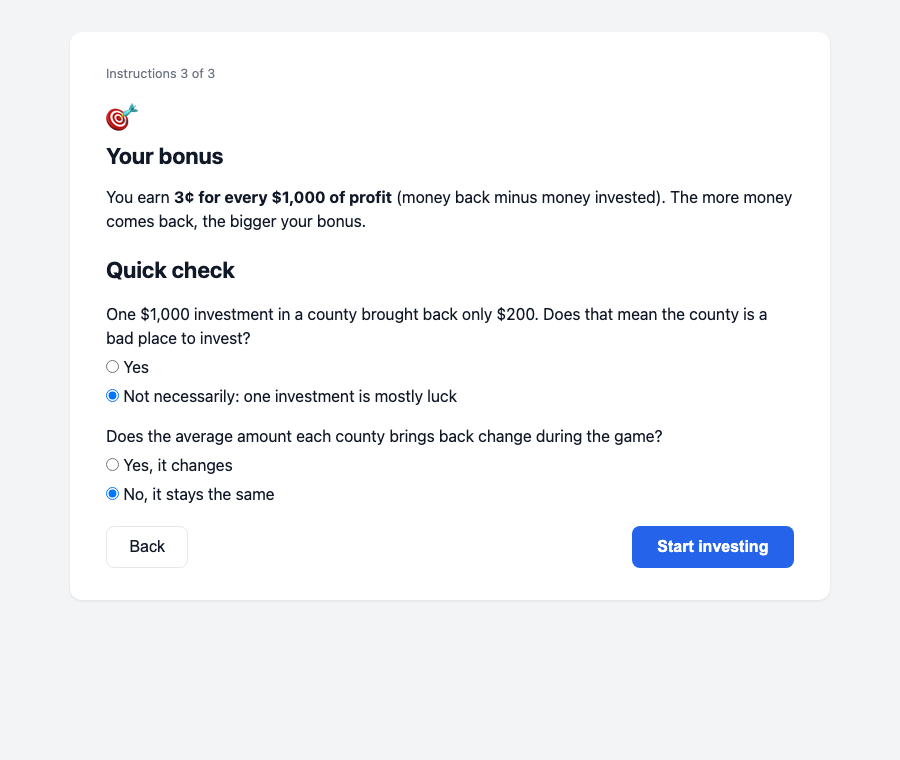
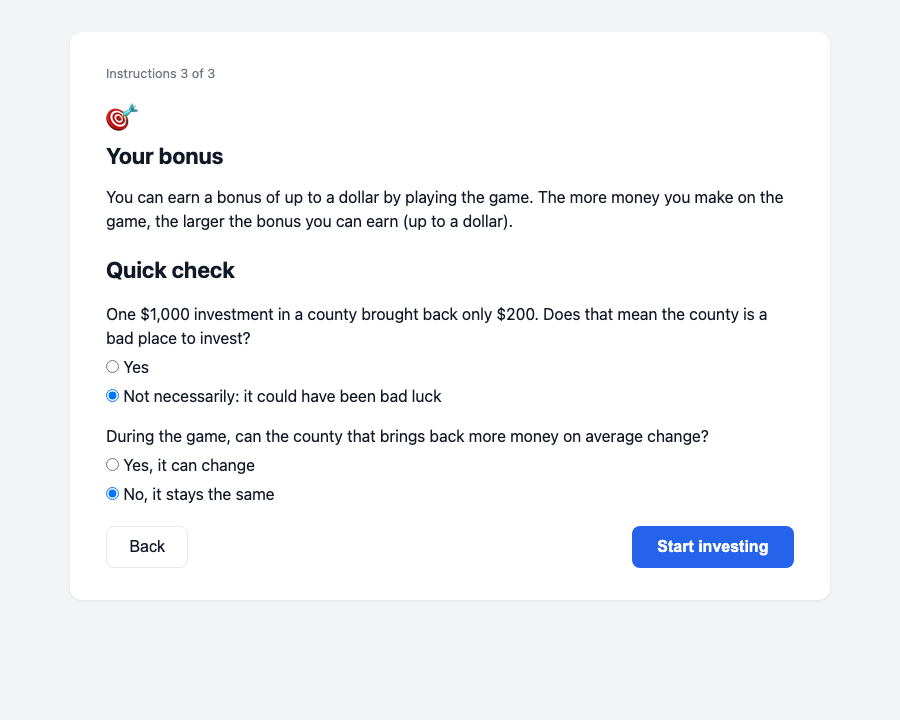
Prototype: apply BenBen's Coedit copy (instructions, check, bonus up to $1 from scaled profit, no tiles, always-green cash, 0.25 s pause)

Changed region(s): [[0.0933, 0.0917, 0.8711, 0.7944], [0.6844, 0.6722, 0.9022, 0.7944]]

diff --git a/studies/09_bandit_prototype/prototype.html b/studies/09_bandit_prototype/prototype.html
@@ -41,15 +41,11 @@
   .ledger { margin-top: .8rem; font-size: .9rem; font-variant-numeric: tabular-nums; }
   .ledger div { display: flex; justify-content: space-between; }
   .ledger .last { font-weight: 700; }
-  .tiles { display: flex; flex-wrap: wrap; gap: 5px; margin-top: .7rem; min-height: 28px; }
-  .tile { font-size: .78rem; font-weight: 700; padding: 3px 7px; border-radius: 6px; background: #fff; border: 1px solid var(--line); color: var(--green); font-variant-numeric: tabular-nums; }
-  .tile.low { color: var(--muted); }
 
   /* cash animation */
   .btn-wrap { position: relative; }
   .cash { position: absolute; left: 50%; top: -.4rem; transform: translateX(-50%); font-size: 2rem; font-weight: 900; color: var(--green); pointer-events: none; white-space: nowrap;
           text-shadow: 0 1px 0 #fff, 0 0 12px rgba(21,128,61,.25); animation: rise 1.1s ease-out forwards; }
-  .cash.low { color: #4b5563; text-shadow: 0 1px 0 #fff; }
   @keyframes rise { 0% { opacity: 0; transform: translate(-50%, 10px) scale(.6); } 15% { opacity: 1; transform: translate(-50%, 0) scale(1.15); } 30% { transform: translate(-50%, -6px) scale(1); } 100% { opacity: 0; transform: translate(-50%, -60px) scale(1); } }
   body.noanim .cash { animation: none; transform: translate(-50%, -2.6rem); }
 
@@ -92,7 +88,8 @@ const CFG = {
   backD: num('d', 1.00),           // average $ back per $1 invested, Lakewood
   shapeR: num('kr', 2.7),          // noise: SD of one return = mean / sqrt(shape)
   shapeD: num('kd', 2.0),
-  centsPer1kProfit: num('cents', 3), // bonus per $1,000 of profit (money back minus money in)
+  centsPer1kProfit: num('cents', 2.5), // bonus per $1,000 of profit (money back minus money in)
+  maxBonus: num('maxbonus', 1.00),       // bonus cap in dollars
   seed: num('seed', Math.floor(Math.random() * 1e9)),
 };
 const N_INVEST = Math.round(CFG.budget / CFG.unit);
@@ -122,7 +119,8 @@ const S = { screen: 'tut1', check: {}, checkTried: false, log: [], last: null, b
 const invested = c => S.log.filter(v => !c || v.county === c).length * CFG.unit;
 const back = c => S.log.filter(v => !c || v.county === c).reduce((s, v) => s + v.back, 0);
 const profit = () => back() - invested();
-const bonus = () => Math.max(0, profit()) / 1000 * CFG.centsPer1kProfit / 100;
+const bonusFor = pr => Math.min(CFG.maxBonus, Math.max(0, pr) / 1000 * CFG.centsPer1kProfit / 100);
+const bonus = () => bonusFor(profit());
 const $ = x => (x < 0 ? '−$' : '$') + Math.abs(Math.round(x)).toLocaleString('en-US');
 const $s = x => (x >= 0 ? '+' : '') + $(x);
 
@@ -134,7 +132,7 @@ function invest(c) {
     S.busy = false;
     if (S.log.length >= N_INVEST) { S.screen = 'end'; render(); return; }
     document.querySelectorAll('.invest-btn').forEach(b => { b.disabled = false; }); // no re-render, so the cash animation plays out
-  }, SHOT ? 0 : 450);
+  }, SHOT ? 0 : 250);
 }
 
 // --------------------------------- views -----------------------------------
@@ -153,24 +151,23 @@ const views = {
     ${nav(null, "S.screen='tut2';render()")}`,
 
   tut2: () => h`<div class="steps">Instructions 2 of 3</div>
-    <div class="big-emoji">💵</div><h2>Money in, money out</h2>
+    <div class="big-emoji">💵</div><h2>Deciding where to invest</h2>
     <p>Each time you click, you invest ${$(CFG.unit)} in that county, and you see right away how much money came back from sales.</p>
-    <p>Counties differ: in some, ${$(CFG.unit)} brings back more money on average than in others. Either county could be the better one.</p>
-    <p>Any single investment is mostly luck. A good county can bring back little, and a weak county can bring back a lot. To tell which county is better, look at many investments, not one.</p>
-    <p>Each county's average stays the same for the whole game.</p>
+    <p>On average, one county may bring back more money than the other.</p>
+    <p>However, like in the real world, sometimes you'll get lucky and make more money. Others, you will have less luck and earn less.</p>
     ${nav('tut1', "S.screen='tut3';render()")}`,
 
   tut3: () => {
     const qs = [
       { id: 'q1', text: `One ${$(CFG.unit)} investment in a county brought back only $200. Does that mean the county is a bad place to invest?`,
-        opts: ['Yes', 'Not necessarily: one investment is mostly luck'], right: 1 },
-      { id: 'q2', text: 'Does the average amount each county brings back change during the game?', opts: ['Yes, it changes', 'No, it stays the same'], right: 1 },
+        opts: ['Yes', 'Not necessarily: it could have been bad luck'], right: 1 },
+      { id: 'q2', text: 'During the game, can the county that brings back more money on average change?', opts: ['Yes, it can change', 'No, it stays the same'], right: 1 },
     ];
     const ok = qs.every(q => S.check[q.id] === q.right);
     const all = qs.every(q => S.check[q.id] != null);
     return h`<div class="steps">Instructions 3 of 3</div>
     <div class="big-emoji">🎯</div><h2>Your bonus</h2>
-    <p>You earn <b>${CFG.centsPer1kProfit}¢ for every ${$(1000)} of profit</b> (money back minus money invested). The more money comes back, the bigger your bonus.</p>
+    <p>You can earn a bonus of up to a dollar by playing the game. The more money you make on the game, the larger the bonus you can earn (up to a dollar).</p>
     <h2 style="margin-top:1.25rem">Quick check</h2>
     ${qs.map(q => h`<div class="q"><div>${q.text}</div>${q.opts.map((o, i) => `<label><input type="radio" name="${q.id}" ${S.check[q.id] === i ? 'checked' : ''} onchange="S.check.${q.id}=${i};S.checkTried=false;render()"> ${o}</label>`).join('')}
       ${S.checkTried && S.check[q.id] !== q.right ? '<div class="wrong">Not quite. Please read the instructions again.</div>' : ''}</div>`).join('')}
@@ -182,7 +179,7 @@ const views = {
     const card = c => {
       const mine = S.log.filter(v => v.county === c);
       const cash = S.busy && S.last && S.last.county === c
-        ? `<div class="cash ${S.last.back < CFG.unit ? 'low' : ''}">+${$(S.last.back)}</div>` : '';
+        ? `<div class="cash">+${$(S.last.back)}</div>` : '';
       return h`<div class="county">
         <h3>${COUNTY[c].name}</h3><div class="desc">${COUNTY[c].desc}</div>
         <div class="btn-wrap"><button class="invest-btn" ${S.busy || left <= 0 ? 'disabled' : ''} onclick="invest('${c}')">Invest ${$(CFG.unit)} in ${COUNTY[c].short}</button>${cash}</div>
@@ -191,7 +188,6 @@ const views = {
           <div><span>Money back</span><span>${$(back(c))}</span></div>
           <div class="last"><span>Last investment</span><span>${mine.length ? $(mine[mine.length - 1].back) : '–'}</span></div>
         </div>
-        <div class="tiles">${mine.slice(-8).map(v => `<span class="tile ${v.back < CFG.unit ? 'low' : ''}">${$(v.back)}</span>`).join('')}</div>
       </div>`;
     };
     return h`
@@ -222,7 +218,7 @@ function devPanel() {
   return h`<div class="dev"><div><b>Researcher panel</b> (hidden from participants)</div>
     <div>Truth: $1 brings back $${CFG.backR.toFixed(2)} in Riverton, $${CFG.backD.toFixed(2)} in Lakewood</div>
     <div>Noise: one return's SD is ${Math.round(100 / Math.sqrt(CFG.shapeR))}% (R) / ${Math.round(100 / Math.sqrt(CFG.shapeD))}% (D) of its mean</div>
-    <div>All in Riverton: about ${$(CFG.budget * CFG.backR)} back, bonus $${(Math.max(0, CFG.budget * (CFG.backR - 1)) / 1000 * CFG.centsPer1kProfit / 100).toFixed(2)}</div>
+    <div>All in Riverton: about ${$(CFG.budget * CFG.backR)} back, bonus $${bonusFor(CFG.budget * (CFG.backR - 1)).toFixed(2)} (cap $${CFG.maxBonus.toFixed(2)})</div>
     <div>Seed ${CFG.seed} · <a href="${link({ seed: Math.floor(Math.random() * 1e9) })}">new luck</a></div></div>`;
 }
 

diff --git a/studies/09_bandit_prototype/README.md b/studies/09_bandit_prototype/README.md
@@ -1,6 +1,6 @@
 # 09 Click-bandit prototype of the SunCell game
 
-Standalone, playable prototype of the redesigned allocation game: a two-armed bandit framed as money in, money out (BenBen, 2026-11-07). The player has a $100,000 budget and invests it $1,000 at a time. Each click invests in Riverton (R-leaning) or Lakewood (D-leaning) and shows the sales money that came back, with a green number rising from the button. Each county's average return is fixed for the whole game: $1.35 back per $1 in Riverton, $1.00 in Lakewood. One return is Gamma-distributed with the same mean and noise as the Poisson sales in `simulate.py`. Bonus: 3¢ per $1,000 of profit (about $1.05 if everything goes to Riverton, $0 if everything goes to Lakewood). The tutorial has 3 screens and a 2-question check; there is no belief question, no weeks and no diminishing returns, and county cards are neutral gray.
+Standalone, playable prototype of the redesigned allocation game: a two-armed bandit framed as money in, money out (BenBen, 2026-11-07). The player has a $100,000 budget and invests it $1,000 at a time. Each click invests in Riverton (R-leaning) or Lakewood (D-leaning) and shows the sales money that came back, with a green number rising from the button (always green). Each county's average return is fixed for the whole game: $1.35 back per $1 in Riverton, $1.00 in Lakewood. One return is Gamma-distributed with the same mean and noise as the Poisson sales in `simulate.py`. Bonus: 2.5¢ per $1,000 of profit, never below $0 and capped at $1.00 (BenBen: luck counts, bonus is the game money scaled down, up to a dollar). The tutorial has 3 screens and a 2-question check; there is no belief question, no weeks and no diminishing returns, and county cards are neutral gray.
 
 Open `prototype.html` in a browser. URL parameters: `r`, `d` (average $ back per $1, defaults 1.35 / 1.00), `kr`, `kd` (noise shape, defaults 2.7 / 2.0; SD of one return = mean / sqrt(shape)), `budget`, `unit`, `cents` (bonus per $1,000 profit), `seed`, `dev=1` (researcher panel with the truth). The end screen offers the investment log as JSON. `screenshots/` holds static renders (`?shot=tut1|tut2|tut3|game0|game|end`).
 
